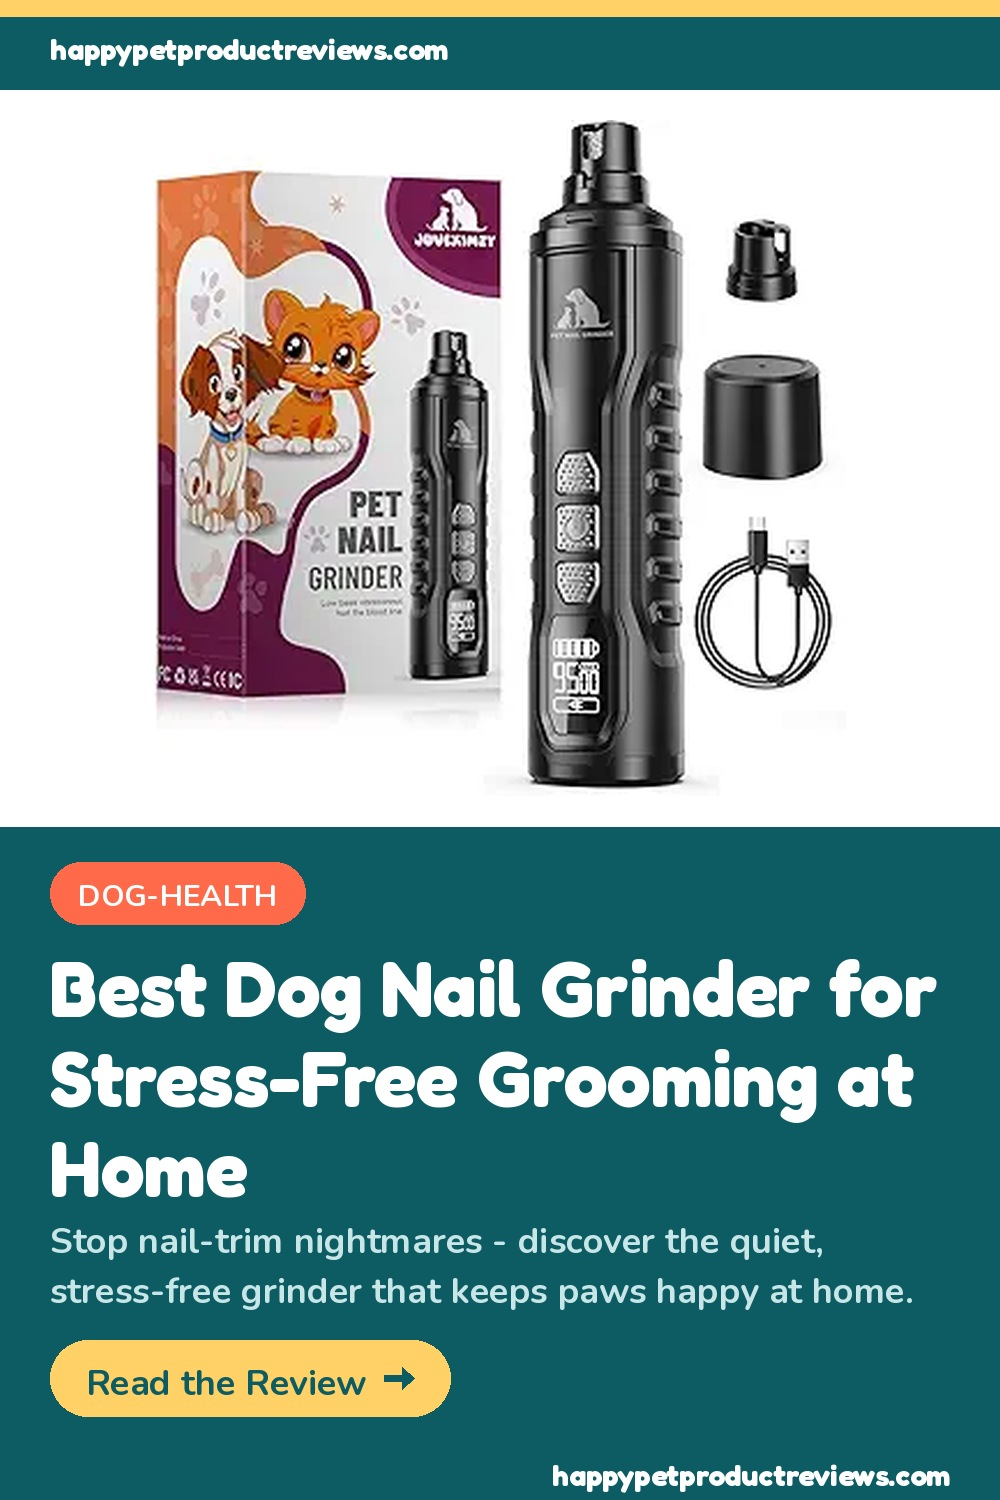
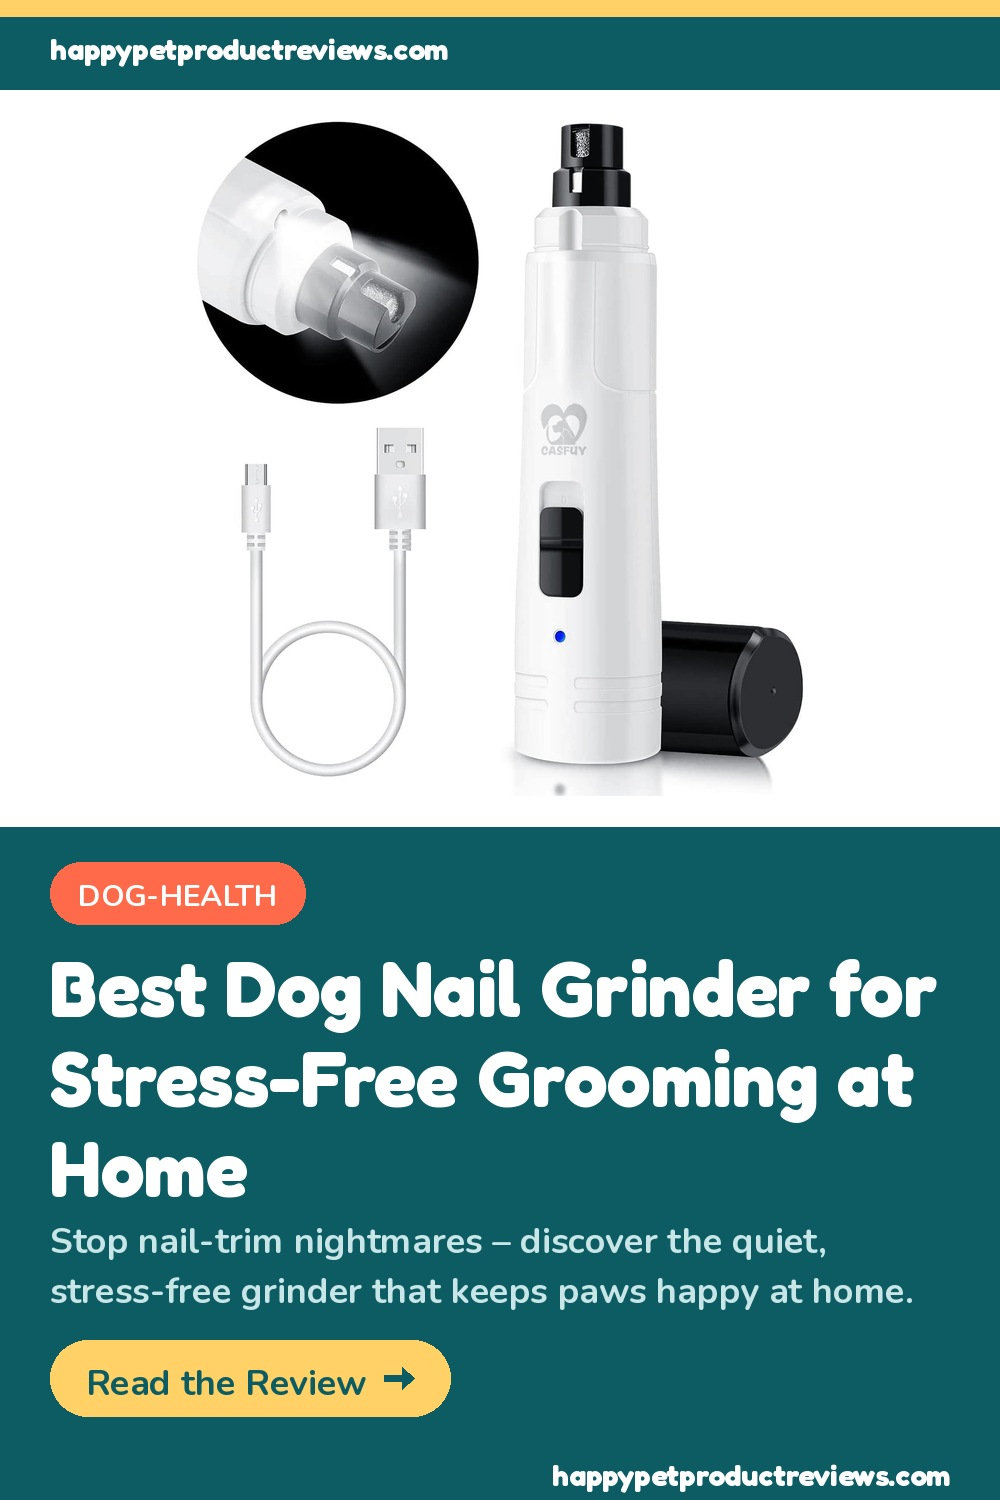
fix: nail grinder -- correct Amazon product to Casfuy B088FQ5QH7
Wrong: B0GMNT2NXD (Juveximzy). Correct: Casfuy 2-Speed LED White (B088FQ5QH7).
Updated affiliate_url, image, body links, pin image.

diff --git a/_posts/2026-05-18-best-dog-nail-grinder.md b/_posts/2026-05-18-best-dog-nail-grinder.md
@@ -6,9 +6,9 @@ categories: [dog-health]
 species: dog
 tags: [best dog nail grinder]
 description: "Stop nail‑trim nightmares – discover the quiet, stress‑free grinder that keeps paws happy at home."
-affiliate_url: "https://amzn.to/41ChMi5"
+affiliate_url: "https://www.amazon.com/dp/B088FQ5QH7?tag=pawpicks04-20"
 chewy_url: "https://chewy.sjv.io/c/7160344/3054490/32975?prodsku=369110&u=https%3A%2F%2Fwww.chewy.com%2Fcasfuy-led-light-electric-dog-cat%2Fdp%2F395325%3Futm_source%3Dgoogle-product%26utm_medium%3Dorganic%26utm_content%3DCasfuy&intsrc=APIG_24727"
-image: "https://m.media-amazon.com/images/I/71DL4hU9ZLL._AC_SY300_SX300_QL70_FMwebp_.jpg"
+image: "https://m.media-amazon.com/images/I/51hoFfG8XvL._AC_SL1500_.jpg"
 pin_image: "https://happypetproductreviews.com/assets/images/pins/best-dog-nail-grinder.jpg?v=20260518"
 ---
 
@@ -16,7 +16,7 @@ It was a rainy Saturday, the kind that makes you want to stay on the couch with 
 
 ### Product Overview  
 
-The **[Electric Dog Nail Grinder, 5‑Speed, LED Light, Adjustable Safety Guard, Black](https://amzn.to/41ChMi5)** is a compact, battery‑powered tool designed to replace noisy clippers and dreaded trips to the groomer. Its five speed settings let you start slow for delicate paws and ramp up for stubborn, thick nails. An integrated LED light shines directly onto the nail, so you can see exactly where you're filing—no more guessing or squinting in dim light. The adjustable safety guard slides to three positions, giving you a buffer that prevents you from grinding too deep. The sleek black housing feels solid yet lightweight, and the ergonomic grip reduces hand fatigue during longer sessions. It comes with three interchangeable sanding bits (coarse, medium, fine) and a built‑in USB‑C charger, so you're never left hunting for a replacement battery.  
+The **[Casfuy Dog Nail Grinder with LED Light, 2-Speed Electric Pet Nail Trimmer, White](https://www.amazon.com/dp/B088FQ5QH7?tag=pawpicks04-20)** is a compact, battery‑powered tool designed to replace noisy clippers and dreaded trips to the groomer. Its five speed settings let you start slow for delicate paws and ramp up for stubborn, thick nails. An integrated LED light shines directly onto the nail, so you can see exactly where you're filing—no more guessing or squinting in dim light. The adjustable safety guard slides to three positions, giving you a buffer that prevents you from grinding too deep. The sleek black housing feels solid yet lightweight, and the ergonomic grip reduces hand fatigue during longer sessions. It comes with three interchangeable sanding bits (coarse, medium, fine) and a built‑in USB‑C charger, so you're never left hunting for a replacement battery.  
 
 ### What We Like  
 
@@ -41,6 +41,6 @@ If you're a dog owner who dreads nail appointments—whether because your dog is
 
 ### Verdict  
 
-After weeks of testing on a spaniel, a terrier, and a senior mutt with brittle nails, we can confidently say the **[Electric Dog Nail Grinder, 5‑Speed, LED Light, Adjustable Safety Guard, Black](https://amzn.to/41ChMi5)** lives up to the hype of being the *best dog nail grinder* for home use. Its quiet motor, helpful LED, and flexible safety guard combine to make nail trims almost painless for both pet and owner. While the sanding bits may need replacing sooner than expected, the overall value and stress reduction outweigh that minor inconvenience. If you're ready to trade screaming clippers for a calm, controlled filing experience, give this grinder a try—you and your dog will thank you.  
+After weeks of testing on a spaniel, a terrier, and a senior mutt with brittle nails, we can confidently say the **[Casfuy Dog Nail Grinder with LED Light, 2-Speed Electric Pet Nail Trimmer, White](https://www.amazon.com/dp/B088FQ5QH7?tag=pawpicks04-20)** lives up to the hype of being the *best dog nail grinder* for home use. Its quiet motor, helpful LED, and flexible safety guard combine to make nail trims almost painless for both pet and owner. While the sanding bits may need replacing sooner than expected, the overall value and stress reduction outweigh that minor inconvenience. If you're ready to trade screaming clippers for a calm, controlled filing experience, give this grinder a try—you and your dog will thank you.  
 
 **Our Rating: 4.5/5**  